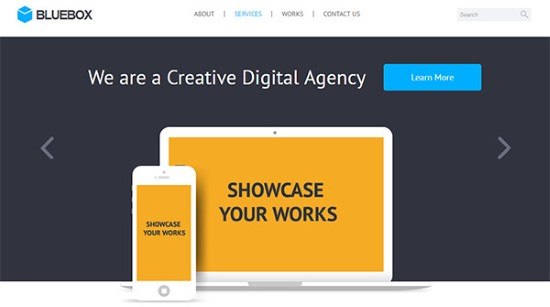
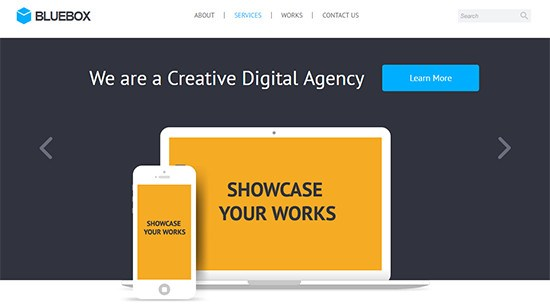
Add hamburger menu & new color palette

diff --git a/css/style.css b/css/style.css
@@ -1,3 +1,3 @@
-html,body,div,span,applet,object,iframe,h1,h2,h3,h4,h5,h6,p,blockquote,pre,a,abbr,acronym,address,big,cite,code,del,dfn,em,img,ins,kbd,q,s,samp,small,strike,strong,sub,sup,tt,var,b,u,i,center,dl,dt,dd,ol,ul,li,fieldset,form,label,legend,table,caption,tbody,tfoot,thead,tr,th,td,article,aside,canvas,details,embed,figure,figcaption,footer,header,hgroup,menu,nav,output,ruby,section,summary,time,mark,audio,video{margin:0;padding:0;border:0;font-size:100%;font:inherit;vertical-align:baseline}article,aside,details,figcaption,figure,footer,header,hgroup,menu,nav,section{display:block}body{line-height:1}ol,ul{list-style:none}blockquote,q{quotes:none}blockquote:before,blockquote:after{content:'';content:none}q:before,q:after{content:'';content:none}table{border-collapse:collapse;border-spacing:0}html{font-size:16px;font-family:'Raleway', sans-serif}header{background:url("../img/bg.jpg") no-repeat center;background-size:cover;background-attachment:fixed;height:100vh;width:100%;position:relative}@media (max-width: 650px){header{height:500px}}header .hamburger{position:absolute;text-indent:100px;z-index:100;top:10px;left:10px;width:35px;height:33px;background-color:transparent;border:none;border-top:5px solid #c3c3c3;transition:-webkit-transform 0.3s linear;transition:transform 0.3s linear;transition:transform 0.3s linear, -webkit-transform 0.3s linear}header .hamburger:before,header .hamburger:after{content:"";display:block;top:0;left:0;width:100%;-webkit-transform:translateY(6px);transform:translateY(6px);border-top:5px solid #c3c3c3;position:absolute}header .hamburger:after{-webkit-transform:translateY(18px);transform:translateY(18px);transition:-webkit-transform 0.3s linear;transition:transform 0.3s linear;transition:transform 0.3s linear, -webkit-transform 0.3s linear}header .hamburger:focus{-webkit-transform:rotate(45deg) translateY(5px);transform:rotate(45deg) translateY(5px);border:none;outline:none}header .hamburger:focus:after{-webkit-transform:rotate(-90deg) translateX(-6px);transform:rotate(-90deg) translateX(-6px)}header nav{z-index:2;position:fixed;left:50%;-webkit-transform:translateX(-50%);transform:translateX(-50%);background-color:rgba(50,50,50,0.9);box-shadow:1px 1px 10px rgba(0,0,0,0.8);border-bottom-right-radius:6px;border-bottom-left-radius:6px}@media (max-width: 1100px){header nav{left:0;-webkit-transform:none;transform:none;width:100%;border-radius:0}}@media (max-width: 650px){header nav{padding-top:50px;overflow:hidden}}header nav ul{text-align:center}header nav li{display:inline-block;border-left:none}@media (max-width: 650px){header nav li{display:block}}header nav li:first-child{border-bottom-left-radius:6px}header nav li:last-child{border-bottom-right-radius:6px}header nav li:hover{background-color:rgba(0,0,0,0.15)}header nav a{display:block;text-decoration:none;color:#fff;padding:15px;font-size:1.2rem;position:relative}header .socials{top:100px;z-index:1;position:fixed;right:0px}@media (max-width: 650px){header .socials{display:none}}header .socials li{display:block;margin-top:5px;position:relative;right:-140px;transition:right 0.5s ease}header .socials li:hover{right:-25px}header .socials a{width:180px;overflow:hidden;border-bottom-left-radius:15px;border-top-left-radius:15px;display:inline-block;text-decoration:none;text-indent:20px;-moz-box-sizing:border-box;box-sizing:border-box;padding:5px 8px;color:#fff}header .socials a:before{font-size:1.7rem;float:left;text-indent:0px}header .socials a.fa{font-size:1.7rem}header .socials a.fa-facebook{border:1px solid #092766;padding-left:10px;background-color:#3B5998}header .socials a.fa-github{border:1px solid #3c3c3c;text-indent:30px;background-color:#000}header .socials a.fa-linkedin{border:1px solid #004983;background-color:#007BB5}header .socials span{font-family:'Raleway', sans-serif;font-size:1.4rem}header .site-title{height:100%;display:-webkit-flex;display:-ms-flexbox;display:flex;-webkit-align-items:center;-ms-flex-align:center;align-items:center;-webkit-justify-content:center;-ms-flex-pack:center;justify-content:center}header .site-title h1{padding:0 10px;color:#fff;display:inline-block;text-align:center;font-size:5rem;line-height:5rem;text-shadow:1px 1px 5px #000,1px 1px 50px #000}@media (max-width: 1100px){header .site-title h1{font-size:4rem;line-height:4rem}}@media (max-width: 650px){header .site-title h1{font-size:3rem}}header .site-title span{display:block;margin-top:15px}main h2{font-size:2rem;margin-bottom:30px}main .section-container{width:90%;max-width:1300px;margin:0 auto;padding:40px 0}#o-mnie{background-color:#fff}#o-mnie .about{background-color:rgba(255,255,255,0.8);padding:20px;border-radius:20px;box-shadow:2px 2px 20px -5px;margin:0 20px;display:-webkit-flex;display:-ms-flexbox;display:flex;-webkit-justify-content:center;-ms-flex-pack:center;justify-content:center}@media (max-width: 650px){#o-mnie .about{-webkit-align-items:center;-ms-flex-align:center;align-items:center;-webkit-flex-direction:column;-ms-flex-direction:column;flex-direction:column;margin:0}}#o-mnie img{width:192px;height:192px;border-radius:100%;border:4px solid #dcdcdc}#o-mnie .text-container{margin-left:30px;padding:30px 0}@media (max-width: 650px){#o-mnie .text-container{margin-left:0}}#o-mnie .text-container span{font-weight:600}#o-mnie .text-container strong{font-weight:600}#o-mnie p{margin-bottom:15px;line-height:22px}#o-mnie p:last-child{margin-bottom:0}#o-mnie .skills{margin-top:50px}#o-mnie .skills h3{font-size:1.5rem;text-align:center;margin-bottom:15px}#o-mnie .skills .skills-container{font-size:1.2rem;margin:0 auto;display:-webkit-flex;display:-ms-flexbox;display:flex;-webkit-justify-content:center;-ms-flex-pack:center;justify-content:center;-webkit-flex-wrap:wrap;-ms-flex-wrap:wrap;flex-wrap:wrap;max-width:450px}#o-mnie .skills span{color:#fff;padding:10px 20px;margin:5px;cursor:pointer}#o-mnie .skills span:nth-child(5n){background-color:#2870B1}#o-mnie .skills span:nth-child(5n):hover{background-color:#3c84c5}#o-mnie .skills span:nth-child(5n+1){background-color:#F28A00}#o-mnie .skills span:nth-child(5n+1):hover{background-color:#ff9e14}#o-mnie .skills span:nth-child(5n+2){background-color:#66D900}#o-mnie .skills span:nth-child(5n+2):hover{background-color:#7aed14}#o-mnie .skills span:nth-child(5n+3){background-color:#BA0012}#o-mnie .skills span:nth-child(5n+3):hover{background-color:#ce1426}#o-mnie .skills span:nth-child(5n+4){background-color:#651F9A}#o-mnie .skills span:nth-child(5n+4):hover{background-color:#7933ae}#projekty{background-color:#E6FEFF}#projekty .projects-container{display:-webkit-flex;display:-ms-flexbox;display:flex;-webkit-justify-content:center;-ms-flex-pack:center;justify-content:center;-webkit-flex-wrap:wrap;-ms-flex-wrap:wrap;flex-wrap:wrap}#projekty .project{position:relative;margin:20px;border:1px solid black;box-shadow:8px 8px 10px #aaa}#projekty .project:hover .project-mask{visibility:visible;opacity:0.95}@media (max-width: 650px){#projekty .project{margin:20px 0px}}#projekty .project-mask{position:absolute;top:0;left:0;background-color:#000;width:100%;height:100%;opacity:0;display:none;visibility:hidden;transition:visibility 0.5s, 	opacity 0.5s;display:-webkit-flex;display:-ms-flexbox;display:flex;-webkit-flex-direction:column;-ms-flex-direction:column;flex-direction:column}#projekty img{width:100%;height:100%}#projekty h3{color:#fff;text-align:center;margin-top:20px;font-size:2rem;padding:10px;background-color:#2870B1;height:30px}@media (max-width: 650px){#projekty h3{margin-top:10px;font-size:1.3rem}}#projekty p{font-size:1.3rem;text-align:center;-moz-box-sizing:border-box;box-sizing:border-box;margin-top:8%;color:#fff}@media (max-width: 650px){#projekty p{padding:0 5px;margin-top:6%;font-size:1rem}}#projekty .links-container{height:100%;overflow:hidden;display:-webkit-flex;display:-ms-flexbox;display:flex}#projekty a{height:100%;text-decoration:none;color:#fff;text-align:center;width:100%;display:-webkit-flex;display:-ms-flexbox;display:flex;-webkit-justify-content:space-around;-ms-flex-pack:distribute;justify-content:space-around;-webkit-align-items:center;-ms-flex-align:center;align-items:center}#projekty a:hover span{color:#468ecf}#projekty span{font-size:1.3rem}@media (max-width: 650px){#projekty span{font-size:1.1rem}}#projekty span.fa:before{margin-bottom:5px;display:block;font-size:4rem}@media (max-width: 650px){#projekty span.fa:before{font-size:2.5rem}}#kontakt .contact-container{display:-webkit-flex;display:-ms-flexbox;display:flex;-webkit-justify-content:space-around;-ms-flex-pack:distribute;justify-content:space-around;-webkit-flex-wrap:wrap;-ms-flex-wrap:wrap;flex-wrap:wrap}#kontakt .contact-info{box-shadow:2px 2px 10px rgba(0,0,0,0.6);margin:20px 10px 0 0;-moz-box-sizing:border-box;box-sizing:border-box;padding:10px 15px;-webkit-align-self:flex-start;-ms-flex-item-align:start;align-self:flex-start;font-size:1.5rem;border-radius:20px}@media (max-width: 1100px){#kontakt .contact-info{margin:20px 20px 50px;padding:10px 2%}}#kontakt .contact-info:before{color:rgba(0,0,0,0.4);font-size:2rem;text-align:right;display:block;padding:0 10px}#kontakt .contact-info .contact-text{display:block;font-family:'Raleway', sans-serif;text-decoration:none;color:#000;line-height:3rem}@media (max-width: 650px){#kontakt .contact-info .contact-text{font-size:1.2rem;letter-spacing:-1px}}#kontakt .contact-info .contact-text:before{text-indent:-10px;text-align:center;font-family:'FontAwesome';display:inline-block;font-size:2rem;width:50px}@media (max-width: 650px){#kontakt .contact-info .contact-text:before{text-indent:0;width:30px;font-size:1.3rem}}#kontakt form{width:500px}#kontakt form label{font-size:1.3rem;line-height:2.5rem}#kontakt form .field{-moz-box-sizing:border-box;box-sizing:border-box;background-color:#EFEDE1;font-family:'Raleway', sans-serif;border-radius:10px;border:1px solid #b3b1a5;font-size:1rem;display:block;padding:10px;width:100%}#kontakt form .field:focus{outline:none;border-color:#009aeb}#kontakt form button{display:block;margin:30px auto 20px auto;border:none;background-color:#00AEFF;border-radius:6px;color:#fff;font-size:1.2rem;padding:10px;width:200px;cursor:pointer}#kontakt form button:hover{background-color:#0090e1}footer{background-color:#242729;color:#b9b9b9;text-align:center;padding:20px;line-height:1.3rem}footer ul{display:none;margin-bottom:10px}@media (max-width: 650px){footer ul{display:block}}footer li{display:inline-block}footer a{display:inline-block;text-indent:60px;width:40px;overflow:hidden;color:#fff}footer a:before{text-indent:0;float:left;font-size:2rem}
+html,body,div,span,applet,object,iframe,h1,h2,h3,h4,h5,h6,p,blockquote,pre,a,abbr,acronym,address,big,cite,code,del,dfn,em,img,ins,kbd,q,s,samp,small,strike,strong,sub,sup,tt,var,b,u,i,center,dl,dt,dd,ol,ul,li,fieldset,form,label,legend,table,caption,tbody,tfoot,thead,tr,th,td,article,aside,canvas,details,embed,figure,figcaption,footer,header,hgroup,menu,nav,output,ruby,section,summary,time,mark,audio,video{margin:0;padding:0;border:0;font-size:100%;font:inherit;vertical-align:baseline}article,aside,details,figcaption,figure,footer,header,hgroup,menu,nav,section{display:block}body{line-height:1}ol,ul{list-style:none}blockquote,q{quotes:none}blockquote:before,blockquote:after{content:'';content:none}q:before,q:after{content:'';content:none}table{border-collapse:collapse;border-spacing:0}html{font-size:16px;font-family:'Raleway', sans-serif}header{background:url("../img/bg.jpg") no-repeat center;background-size:cover;background-attachment:fixed;height:100vh;width:100%;position:relative}@media (max-width: 650px){header{height:500px}}header .hamburger{display:none;position:absolute;cursor:pointer;top:8px;left:10px;width:35px;height:27px;background-color:transparent;border:none;border-top:5px solid #d7d7d7;transition:-webkit-transform 0.3s linear;transition:transform 0.3s linear;transition:transform 0.3s linear, -webkit-transform 0.3s linear;text-indent:100px;overflow:hidden}@media (max-width: 650px){header .hamburger{display:block}}header .hamburger:focus{border-top:5px solid #9b9b9b;outline:none}header .hamburger:focus:before,header .hamburger:focus:after{border-top:5px solid #9b9b9b}header .hamburger:before,header .hamburger:after{content:"";display:block;top:0;left:0;top:6px;width:100%;border-top:5px solid #d7d7d7;position:absolute}header .hamburger:after{top:17px}header .menu{z-index:2;position:fixed;left:50%;-webkit-transform:translateX(-50%);transform:translateX(-50%);background-color:rgba(50,50,50,0.9);box-shadow:1px 1px 10px rgba(0,0,0,0.8);border-bottom-right-radius:6px;border-bottom-left-radius:6px}@media (max-width: 1100px){header .menu{left:0;-webkit-transform:none;transform:none;width:100%;border-radius:0}}@media (max-width: 650px){header .menu{padding-top:44px;height:0;overflow:hidden}header .menu.open{background-color:rgba(50,50,50,0.9);width:100%;height:auto}}header .menu ul{text-align:center}header .menu li{display:inline-block;border-left:none}@media (max-width: 650px){header .menu li{display:block}}header .menu li:first-child{border-bottom-left-radius:6px}header .menu li:last-child{border-bottom-right-radius:6px}header .menu li:hover{background-color:rgba(0,0,0,0.15)}header .menu a{display:block;text-decoration:none;color:#fff;padding:15px;font-size:1.2rem;position:relative}header .socials{top:100px;z-index:1;position:fixed;right:0px}@media (max-width: 650px){header .socials{display:none}}header .socials li{display:block;margin-top:5px;position:relative;right:-140px;transition:right 0.5s ease}header .socials li:hover{right:-25px}header .socials a{width:180px;overflow:hidden;border-bottom-left-radius:15px;border-top-left-radius:15px;display:inline-block;text-decoration:none;text-indent:20px;-moz-box-sizing:border-box;box-sizing:border-box;padding:5px 8px;color:#fff}header .socials a:before{font-size:1.7rem;float:left;text-indent:0px}header .socials a.fa{font-size:1.7rem}header .socials a.fa-facebook{border:1px solid #092766;padding-left:10px;background-color:#3B5998}header .socials a.fa-github{border:1px solid #3c3c3c;text-indent:30px;background-color:#000}header .socials a.fa-linkedin{border:1px solid #004983;background-color:#007BB5}header .socials span{font-family:'Raleway', sans-serif;font-size:1.4rem}header .site-title{height:100%;display:-webkit-flex;display:-ms-flexbox;display:flex;-webkit-align-items:center;-ms-flex-align:center;align-items:center;-webkit-justify-content:center;-ms-flex-pack:center;justify-content:center}header .site-title h1{padding:0 10px;color:#fff;display:inline-block;text-align:center;font-size:5rem;text-shadow:1px 1px 5px #000,1px 1px 20px #000}@media (max-width: 1100px){header .site-title h1{font-size:4rem}}@media (max-width: 650px){header .site-title h1{font-size:3rem}}header .site-title span{display:block;margin-top:15px}main h2{font-size:2rem;margin-bottom:30px}main .section-container{width:90%;max-width:1300px;margin:0 auto;padding:50px 0}#o-mnie{background-color:#DBFDFE;border-top:1px solid #bddfe0;border-bottom:1px solid #bddfe0}#o-mnie .about{background-color:rgba(255,255,255,0.8);padding:20px;border-radius:20px;box-shadow:2px 2px 20px -5px;margin:0 20px;display:-webkit-flex;display:-ms-flexbox;display:flex;-webkit-justify-content:center;-ms-flex-pack:center;justify-content:center}@media (max-width: 650px){#o-mnie .about{-webkit-align-items:center;-ms-flex-align:center;align-items:center;-webkit-flex-direction:column;-ms-flex-direction:column;flex-direction:column;margin:0}}#o-mnie img{width:192px;height:192px;border-radius:100%;border:4px solid #dcdcdc}#o-mnie .text-container{margin-left:30px;padding:30px 0}@media (max-width: 650px){#o-mnie .text-container{margin-left:0}}#o-mnie .text-container span{font-weight:600}#o-mnie .text-container strong{font-weight:600}#o-mnie p{margin-bottom:15px;line-height:22px}#o-mnie p:last-child{margin-bottom:0}#o-mnie .skills{margin-top:50px}#o-mnie .skills h3{font-size:1.5rem;text-align:center;margin-bottom:15px}#o-mnie .skills .skills-container{font-size:1.2rem;margin:0 auto;display:-webkit-flex;display:-ms-flexbox;display:flex;-webkit-justify-content:center;-ms-flex-pack:center;justify-content:center;-webkit-flex-wrap:wrap;-ms-flex-wrap:wrap;flex-wrap:wrap;max-width:450px}#o-mnie .skills span{color:#fff;padding:10px 20px;margin:5px;cursor:pointer}#o-mnie .skills span:nth-child(5n){background-color:#2870B1}#o-mnie .skills span:nth-child(5n):hover{background-color:#3c84c5}#o-mnie .skills span:nth-child(5n+1){background-color:#F28A00}#o-mnie .skills span:nth-child(5n+1):hover{background-color:#ff9e14}#o-mnie .skills span:nth-child(5n+2){background-color:#66D900}#o-mnie .skills span:nth-child(5n+2):hover{background-color:#7aed14}#o-mnie .skills span:nth-child(5n+3){background-color:#BA0012}#o-mnie .skills span:nth-child(5n+3):hover{background-color:#ce1426}#o-mnie .skills span:nth-child(5n+4){background-color:#651F9A}#o-mnie .skills span:nth-child(5n+4):hover{background-color:#7933ae}#projekty{background-color:#DBFEAB;border-bottom:1px solid #bde08d}#projekty .projects-container{display:-webkit-flex;display:-ms-flexbox;display:flex;-webkit-justify-content:center;-ms-flex-pack:center;justify-content:center;-webkit-flex-wrap:wrap;-ms-flex-wrap:wrap;flex-wrap:wrap}#projekty .project{position:relative;margin:20px;border:1px solid black;box-shadow:0 0 20px rgba(0,0,0,0.5)}#projekty .project:hover .project-mask{visibility:visible;opacity:0.95}@media (max-width: 650px){#projekty .project{margin:25px 0px}}#projekty .project-mask{position:absolute;top:0;left:0;background-color:#000;width:100%;height:100%;opacity:0;display:none;visibility:hidden;transition:visibility 0.5s, 	opacity 0.5s;display:-webkit-flex;display:-ms-flexbox;display:flex;-webkit-flex-direction:column;-ms-flex-direction:column;flex-direction:column}#projekty img{width:100%;height:100%}#projekty h3{color:#fff;text-align:center;margin-top:20px;font-size:2rem;padding:10px;background-color:#2870B1;height:30px}@media (max-width: 650px){#projekty h3{margin-top:10px;font-size:1.3rem}}#projekty p{font-size:1.3rem;text-align:center;-moz-box-sizing:border-box;box-sizing:border-box;margin-top:8%;color:#fff}@media (max-width: 650px){#projekty p{padding:0 5px;margin-top:6%;font-size:1rem}}#projekty .links-container{height:100%;overflow:hidden;display:-webkit-flex;display:-ms-flexbox;display:flex}#projekty a{height:100%;text-decoration:none;color:#fff;text-align:center;width:100%;display:-webkit-flex;display:-ms-flexbox;display:flex;-webkit-justify-content:space-around;-ms-flex-pack:distribute;justify-content:space-around;-webkit-align-items:center;-ms-flex-align:center;align-items:center}#projekty a:hover span{color:#468ecf}#projekty span{font-size:1.3rem}@media (max-width: 650px){#projekty span{font-size:1.1rem}}#projekty span.fa:before{margin-bottom:5px;display:block;font-size:4rem}@media (max-width: 650px){#projekty span.fa:before{font-size:2.5rem}}#kontakt{background-color:#FDFEE5}#kontakt .contact-container{display:-webkit-flex;display:-ms-flexbox;display:flex;-webkit-justify-content:space-around;-ms-flex-pack:distribute;justify-content:space-around;-webkit-flex-wrap:wrap;-ms-flex-wrap:wrap;flex-wrap:wrap}#kontakt .contact-info{background-color:rgba(255,255,255,0.8);box-shadow:2px 2px 10px rgba(0,0,0,0.6);margin:20px 10px 0 0;-moz-box-sizing:border-box;box-sizing:border-box;padding:10px 15px;-webkit-align-self:flex-start;-ms-flex-item-align:start;align-self:flex-start;font-size:1.5rem;border-radius:20px}@media (max-width: 1100px){#kontakt .contact-info{margin:20px 20px 50px;padding:10px 2%}}#kontakt .contact-info:before{color:rgba(0,0,0,0.4);font-size:2rem;text-align:right;display:block;padding:0 10px}#kontakt .contact-info .contact-text{display:block;font-family:'Raleway', sans-serif;text-decoration:none;color:#000;line-height:3rem}@media (max-width: 650px){#kontakt .contact-info .contact-text{font-size:1.2rem;letter-spacing:-1px}}#kontakt .contact-info .contact-text:before{text-indent:-10px;text-align:center;font-family:'FontAwesome';display:inline-block;font-size:2rem;width:50px}@media (max-width: 650px){#kontakt .contact-info .contact-text:before{text-indent:0;width:30px;font-size:1.3rem}}#kontakt form{width:500px}#kontakt form label{font-size:1.3rem;line-height:2.5rem}#kontakt form .field{-moz-box-sizing:border-box;box-sizing:border-box;font-family:'Raleway', sans-serif;border-radius:10px;border:1px solid #b3b1a5;font-size:1rem;display:block;padding:10px;width:100%}#kontakt form .field:focus{outline:none;border-color:#009aeb}#kontakt form button{display:block;margin:30px auto 20px auto;border:none;background-color:#00AEFF;border-radius:6px;color:#fff;font-size:1.2rem;padding:10px;width:200px;cursor:pointer}#kontakt form button:hover{background-color:#0090e1}footer{background-color:#242729;color:#b9b9b9;text-align:center;padding:20px;line-height:1.3rem}footer ul{display:none;margin-bottom:10px}@media (max-width: 650px){footer ul{display:block}}footer li{display:inline-block}footer a{margin:0 10px;display:inline-block;text-indent:60px;width:30px;overflow:hidden;color:#fff}footer a:before{text-indent:0;float:left;font-size:2rem}
 
 /*# sourceMappingURL=maps/style.css.map */

diff --git a/scss/style.scss b/scss/style.scss
@@ -20,46 +20,50 @@ header {
 	};
 
 	.hamburger {
+		display: none;
 		position: absolute;
-		text-indent: 100px;
-		z-index: 100;
-		top: 10px;
+		cursor: pointer;
+		top: 8px;
 		left: 10px;
 		width: 35px;
-		height: 33px;
+		height: 27px;
 		background-color: transparent;
 		border: none;
-		border-top: 5px solid $white - 60;
+		border-top: 5px solid $white - 40;
 		transition: transform 0.3s linear;
+		text-indent: 100px;
+		overflow: hidden;
+
+		@include mobile {
+			display: block;
+		};
+
+		&:focus {
+			border-top: 5px solid $white - 100;
+			outline: none;
+
+			&:before, &:after {
+				border-top: 5px solid $white - 100;
+			}
+		}
 
 		&:before, &:after {
 			content: "";
 			display: block;
 			top: 0;
 			left: 0;
+			top: 6px;
 			width: 100%;
-			transform: translateY(6px);
-			border-top: 5px solid $white - 60;
+			border-top: 5px solid $white - 40;
 			position: absolute;
 		}
 
 		&:after {
-			transform: translateY(18px);
-			transition: transform 0.3s linear;
-		}
-
-		&:focus {
-			transform: rotate(45deg) translateY(5px);
-			border: none;
-			outline: none;
-
-			&:after {
-				transform: rotate(-90deg) translateX(-6px);
-			}
+			top: 17px;
 		}
 	}
 
-	nav {
+	.menu {
 		z-index: 2;
 		position: fixed;
 		left: 50%;
@@ -77,10 +81,17 @@ header {
 		};
 
 		@include mobile {
-			padding-top: 50px;
-			// height: 0;
+			padding-top: 44px;
+			height: 0;
 			overflow: hidden;
+
+			&.open {
+				background-color: rgba($black + 50, 0.9);
+				width: 100%;
+				height: auto;
+			}
 		}
+
 
 		ul {
 			text-align: center;
@@ -189,12 +200,10 @@ header {
 			display: inline-block;
 			text-align: center;
 			font-size: 5rem;
-			line-height: 5rem;
-			text-shadow: 1px 1px 5px $black, 1px 1px 50px $black;
+			text-shadow: 1px 1px 5px $black, 1px 1px 20px $black;
 
 			@include tablet {
 				font-size: 4rem;
-				line-height: 4rem;
 			};
 
 			@include mobile {
@@ -219,12 +228,14 @@ main {
 		width: 90%;
 		max-width: 1300px;
 		margin: 0 auto;
-		padding: 40px 0;
+		padding: 50px 0;
 	}
 }
 
 #o-mnie {
 	background-color: $section1;
+	border-top: 1px solid $section1 - 30;
+	border-bottom: 1px solid $section1 - 30;
 
 	.about {
 		background-color: rgba($white, 0.8);
@@ -317,6 +328,7 @@ main {
 
 #projekty {
 	background-color: $section2;
+	border-bottom: 1px solid $section2 - 30;
 
 	.projects-container {
 		display: flex;
@@ -328,14 +340,14 @@ main {
 		position: relative;
 		margin: 20px;
 		border: 1px solid black;
-		box-shadow: 8px 8px 10px #aaa;
+		box-shadow: 0 0 20px rgba($black, 0.5);
 		&:hover .project-mask{
 			visibility: visible;
 			opacity: 0.95;
 		}
 
 		@include mobile {
-			margin: 20px 0px;
+			margin: 25px 0px;
 		};
 	}
 
@@ -427,6 +439,7 @@ main {
 }
 
 #kontakt {
+	background-color: $section3;
 
 	.contact-container {
 		display: flex;
@@ -435,6 +448,7 @@ main {
 	}
 
 	.contact-info {
+		background-color: rgba($white, 0.8);
 		box-shadow: 2px 2px 10px rgba($black, 0.6);
 		margin: 20px 10px 0 0;
 		box-sizing: border-box;
@@ -496,7 +510,6 @@ main {
 
 		.field {
 			box-sizing: border-box;
-			background-color: $field;
 			font-family: 'Raleway', sans-serif;
 			border-radius: 10px;
 			border: 1px solid $field - 60;
@@ -549,9 +562,10 @@ footer {
 	}
 
 	a {
+		margin: 0 10px;
 		display: inline-block;
 		text-indent: 60px;
-		width: 40px;
+		width: 30px;
 		overflow: hidden;
 		color: $white;
 

diff --git a/js/main.js b/js/main.js
@@ -1,9 +1,24 @@
 $(document).ready(function() {
 	//Scroll to section
-	$(".nav-link").on("click", function() {
+	$(".nav-link").on("click", function(e) {
 		var section = $(this).attr("href");
 		$("html, body").animate({
 			scrollTop: $(section).offset().top
 		}, 500);
+	});
+
+	//Cache menu
+	var $menu = $(".menu");
+
+	//Hamburger menu toggle
+	$(".hamburger").on("click", function() {
+		$menu.toggleClass("open");
+	});
+
+	//Hide mobile menu after click on linked
+	$(".nav-link").on("click", function() {
+		if ($(window).width() <= 650) {
+			$menu.toggleClass("open");
+		}
 	});
 });

diff --git a/index.html b/index.html
@@ -15,8 +15,8 @@
 </head>
 <body>
 	<header id="start">
-		<nav>
-			<button class="hamburger"></button>
+		<nav class="menu">
+			<button class="hamburger">Menu</button>
 			<ul>
 				<li>
 					<a class="nav-link" href="#start">Start</a>

diff --git a/scss/_colors.scss b/scss/_colors.scss
@@ -10,8 +10,9 @@ $green: #66D900;
 $red: #BA0012;
 $purple: #651F9A;
 
-$section1: $white;
-$section2: #E6FEFF;
+$section1: #DBFDFE;
+$section2: #DBFEAB;
+$section3: #FDFEE5;
 
 $field: #EFEDE1;
 $skyblue: #00AEFF;
